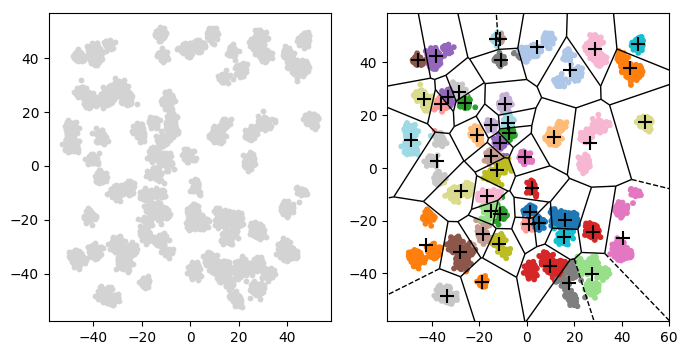
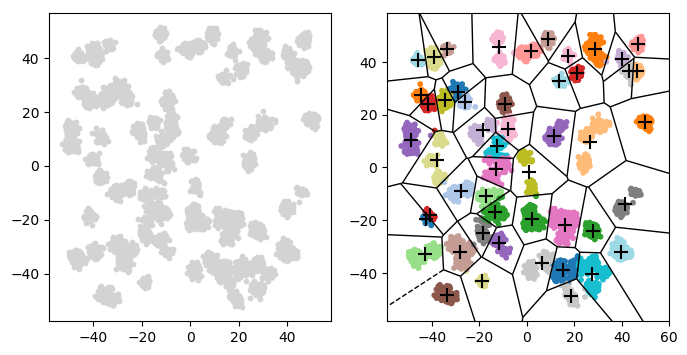
solution

diff --git a/Task 11/solution.py b/Task 11/solution.py
@@ -10,5 +10,15 @@ def k_means(n_groups, X_data):
         group_centroids: np.array: mean of each cluster, shape = (n_groups, n_dimensions)
         groups: np.array: group assignment for each data point, shape = (n_points,)
     '''
+    n_points, n_dimensions = X_data.shape
+    group_centroids = X_data[np.random.choice(n_points, n_groups)]  # initialise centroids
+    finished = False
+
+    while not finished:
+        distances_to_centroids = np.sqrt(np.sum((group_centroids[:, None, :] - X_data[None, ...])**2, axis=-1))
+        groups = np.argmin(distances_to_centroids, axis=0)
+        previous_group_centroids = group_centroids.copy()
+        group_centroids = np.asarray([np.mean(X_data[groups == i], axis=0) for i in range(n_groups)])
+        finished = np.allclose(previous_group_centroids, group_centroids)
 
     return group_centroids, groups
